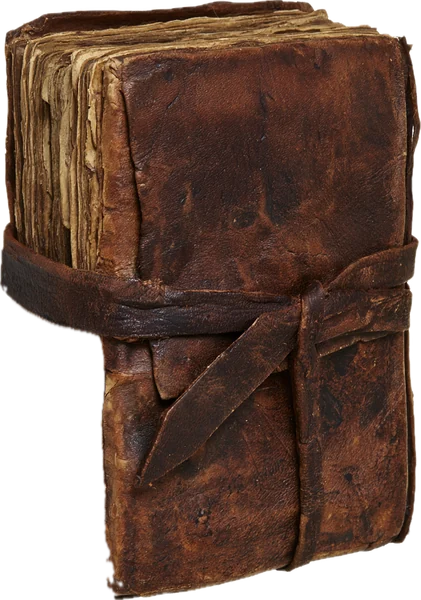
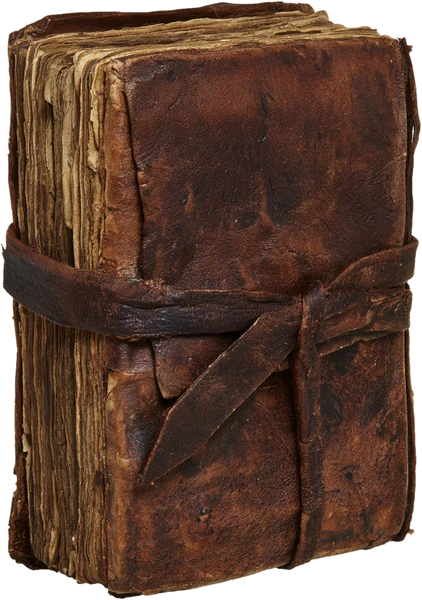
Books and Writings: recut the Hekhalot book so its lower pages aren't chopped off

diff --git a/learn/jewish-history/books-and-writings/index.html b/learn/jewish-history/books-and-writings/index.html
@@ -156,7 +156,7 @@
       { n: 20, t: "Midrash Rabbah", img: "midrash-rabbah.webp", shelf: 1, at: 1280, h: 105 },
       { n: 21, t: "Sefer Yetzirah", img: "sefer-yetzirah.webp", shelf: 0, at: 1120, h: 165 },
       { n: 11, t: "Josephus, The Jewish War and Antiquities", img: "josephus.webp", shelf: 2, at: 1720, h: 215 },
-      { n: 22, t: "Hekhalot literature", img: "hekhalot.webp", shelf: 1, at: 1720, h: 140 },
+      { n: 22, t: "Hekhalot literature", img: "hekhalot.webp?v=2", shelf: 1, at: 1720, h: 140 },
       { n: 23, t: "The piyyutim of Yannai and Kalir", img: "piyyutim.webp", shelf: 0, at: 1720, h: 225 },
       { n: 24, t: "The Passover Haggadah", img: "haggadah.webp", shelf: 1, at: 1842, h: 170 },
       { n: 26, t: "The Siddur", img: "siddur.webp", shelf: 2, at: 1895, h: 125 },
